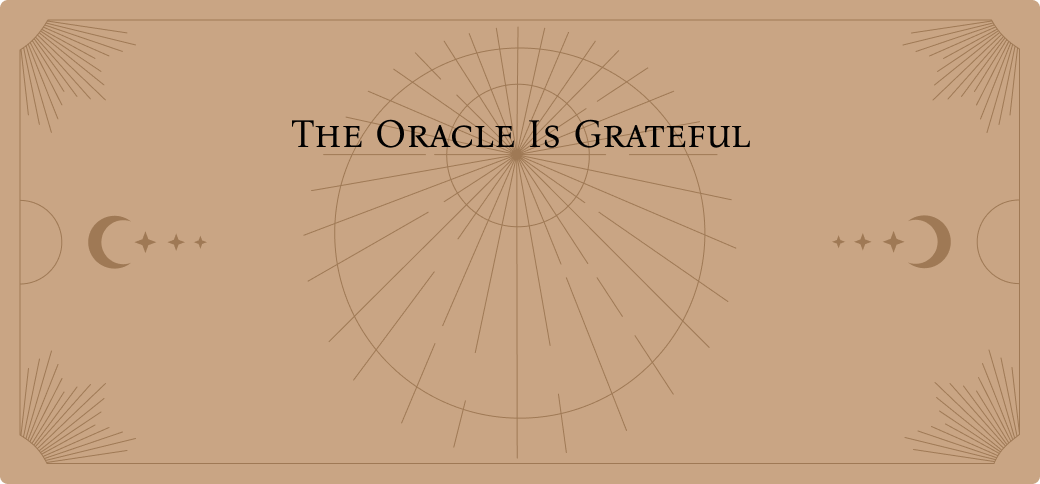
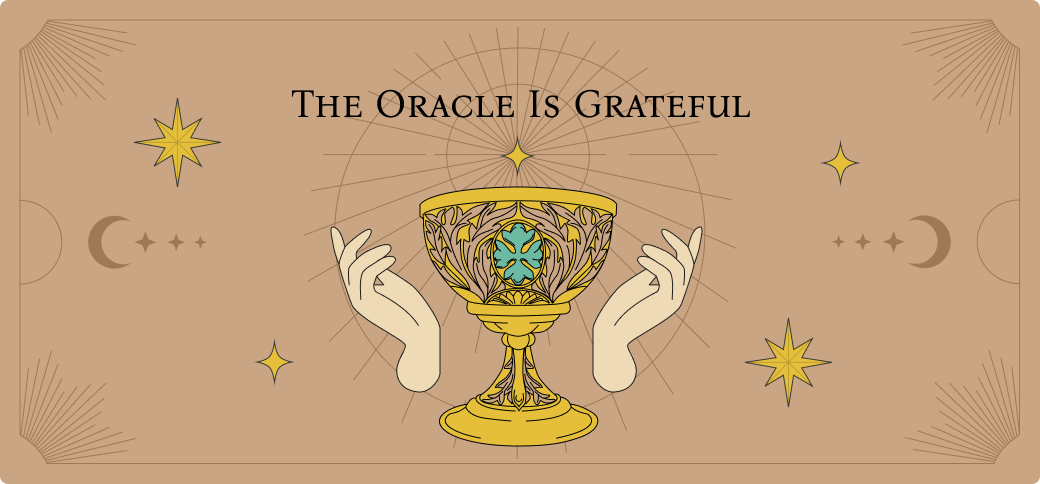
fix: game images & conflict

diff --git a/src/components/pages/game/game.tsx b/src/components/pages/game/game.tsx
@@ -8,6 +8,7 @@ import { z } from 'zod';
 import { BaseTooltip } from '@/components/common/BaseTooltip';
 import Solana from '@/components/common/Svg/Solana.tsx';
 import { Button } from '@/components/ui/button.tsx';
+import { env } from '@/env';
 import useMakePrediction from '@/hooks/contracts/write/use-make-prediction';
 import useSendSol from '@/hooks/contracts/write/use-send-sol';
 import { cn } from '@/lib/utils';
@@ -23,8 +24,11 @@ const TarotRequestSchema = z.object({
 });
 
 const DEFAULT_IMAGE = 'images/tarot-game/bord.png';
+const SHUFFLE_DECK = 'images/tarot-game/shuffle-deck.png';
+const ORACLE_NEEDS_TIME = 'images/tarot-game/oracle-needs-time.png';
+const THANKS_ORACLE = 'images/tarot-game/thanks-oracle.png';
 
-const LOADING_IMAGES = ['images/tarot-game/shuffle-deck.png', 'images/tarot-game/oracle-needs-time.png'] as const;
+const LOADING_IMAGES = [SHUFFLE_DECK, ORACLE_NEEDS_TIME] as const;
 
 type TarotRequestSchemaType = z.infer<typeof TarotRequestSchema>;
 
@@ -76,11 +80,8 @@ export const GameSection = () => {
   }, [isSuccess, predictionAnswer, setValue, watch]);
 
   useEffect(() => {
-    if (isPending) {
-      setCurrentMainImage(LOADING_IMAGES[currentPendingImage]);
-    }
     if (isTipSuccess) {
-      setCurrentMainImage('images/tarot-game/thanks-oracle.png');
+      setCurrentMainImage(THANKS_ORACLE);
 
       const timer = setTimeout(() => {
         setCurrentMainImage(DEFAULT_IMAGE);
@@ -90,7 +91,7 @@ export const GameSection = () => {
         clearTimeout(timer);
       };
     }
-  }, [isTipSuccess, isPending, currentPendingImage]);
+  }, [isTipSuccess]);
 
   useEffect(() => {
     let interval: NodeJS.Timeout | null = null;
@@ -104,12 +105,15 @@ export const GameSection = () => {
           setIsFadingOut(false);
         }, 500);
       }, 5000);
+      setCurrentMainImage(LOADING_IMAGES[currentPendingImage]);
+    } else {
+      setCurrentMainImage(DEFAULT_IMAGE);
     }
 
     return () => {
       if (interval) clearInterval(interval);
     };
-  }, [isPending]);
+  }, [isPending, currentPendingImage]);
 
   return (
     <div className="container flex flex-col gap-[20px] py-[20px] font-inknut">
@@ -117,7 +121,7 @@ export const GameSection = () => {
 
       <div className="w-[90vw] overflow-x-auto sm:w-auto">
         <div className="relative -z-50 h-[444px] w-[888px] sm:h-auto sm:w-auto">
-          {predictionAnswer && (
+          {predictionAnswer && currentMainImage === DEFAULT_IMAGE && (
             <div className="absolute flex h-[93%] w-full flex-row justify-around py-4 sm:h-full sm:justify-evenly">
               {predictionAnswer.tarots.map((e) => {
                 return (
@@ -131,7 +135,15 @@ export const GameSection = () => {
               })}
             </div>
           )}
-          <img src="images/tarot-game/bord.png" alt="bord" className="relative -z-50" />
+          <img
+            src={currentMainImage}
+            alt="bord"
+            className={cn(
+              'relative -z-50 mx-auto h-auto max-h-[484px] w-auto',
+              isPending && 'transition-opacity duration-500 ease-in-out',
+              isFadingOut ? 'opacity-0' : 'opacity-100',
+            )}
+          />
         </div>
       </div>
 
@@ -158,7 +170,7 @@ export const GameSection = () => {
       <div className="grid grid-cols-1 gap-4 sm:grid-cols-2 sm:gap-10">
         <div className="flex flex-row items-center gap-4 rounded-[8px] border border-[#3A3939] bg-[#D0C7A3] p-[14px] text-[20px]">
           <Solana />
-          <div className="font-poppins">0.002 SOL</div>
+          <div className="font-poppins">{env.VITE_DEPOSIT_AMOUNT_SOL} SOL</div>
         </div>
 
         {publicKey ? (

diff --git a/src/components/common/Header/index.tsx b/src/components/common/Header/index.tsx
@@ -18,17 +18,17 @@ export const Header = () => {
     setIsMenuOpen((prev) => !prev);
   };
 
-  const handleModalClose = () => {
-    if (isMenuOpen) {
-      document.body.classList.toggle('overflow-y-hidden');
-      setIsMenuOpen((prev) => !prev);
-    }
-  };
-
   return (
     <header className="max-h-[69px] border-b border-customBlack bg-[url('/images/textures/sand.png')] py-[10px] md:max-h-fit md:py-[20px]">
       <div className="mx-auto flex w-full max-w-[1688px] items-center justify-between bg-repeat px-6">
-        <Link to={routes.HOME} onClick={handleModalClose}>
+        <Link
+          to={routes.HOME}
+          onClick={() => {
+            if (isMenuOpen) {
+              handleModalOpen();
+            }
+          }}
+        >
           <span className="text-[25px] leading-[30px] md:text-[35px] md:leading-[42px]">Tarotsol AI</span>
         </Link>
         <NavMenu className="hidden md:flex" />

diff --git a/tailwind.config.ts b/tailwind.config.ts
@@ -7,7 +7,7 @@ const config = {
       center: true,
       padding: '16px',
       screens: {
-        '2xl': '1360px',
+        '2xl': '1040px',
       },
     },
     extend: {
@@ -100,7 +100,7 @@ const config = {
       animation: {
         'accordion-down': 'accordion-down 0.2s ease-out',
         'accordion-up': 'accordion-up 0.2s ease-out',
-        'tarot-line-scroll': 'tarotLineScroll 60s linear infinite',
+        'tarot-line-scroll': 'tarotLineScroll 80s linear infinite',
       },
     },
   },

diff --git a/src/components/common/BaseTooltip/index.tsx b/src/components/common/BaseTooltip/index.tsx
@@ -1,3 +1,4 @@
+/* eslint-disable @typescript-eslint/no-unused-expressions */
 import { ReactNode, useState } from 'react';
 
 import { Tooltip, TooltipContent, TooltipProvider, TooltipTrigger } from '@/components/ui/tooltip';
